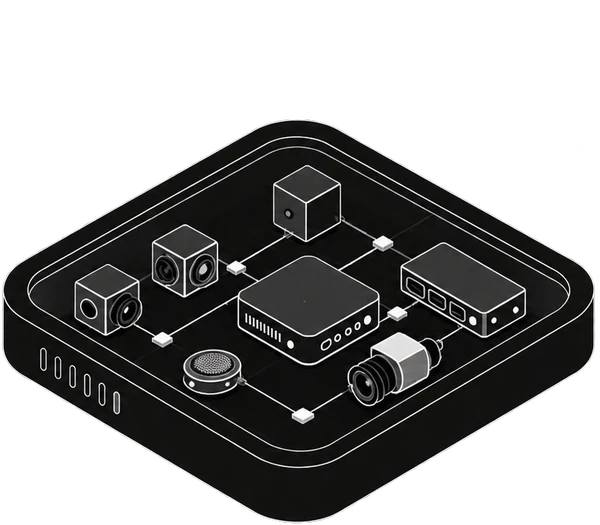
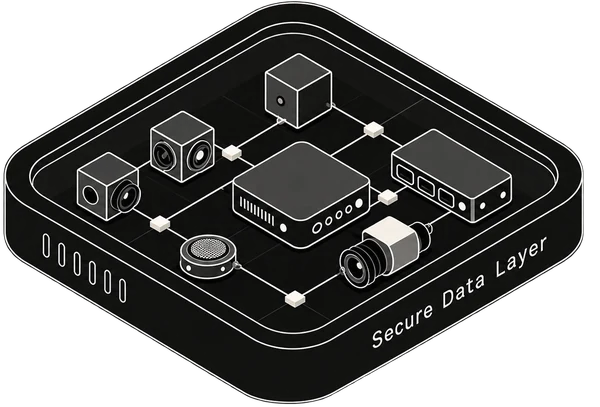
Use the new hospital chips at one size, drop the added labels, widen 06 and 07
The three new chip images carry their own labels, so the site text under
them is gone. All three are scaled to the same chip width with their bottoms
175 apart, and still open out of one. The right hand text in the 06 and 07
rows is 429 wide from 747, as in Page 8.

diff --git a/css/style.css b/css/style.css
@@ -230,8 +230,8 @@ button.nav__link:hover { color: var(--paper); }
 /* Column rule at 365 on both, as in Figma; the rows share the height between the rules */
 .rows { position: absolute; top: 81px; left: 366px; width: calc(834px + var(--dx)); height: calc(670px + var(--dy)); display: flex; flex-direction: column; }
 .row { display: flex; align-items: center; justify-content: space-between; padding: 0 24px; flex: 1 1 0; min-height: 0; }
-.row > .t-b16 { width: 315px; }
-.detail { width: 315px; display: flex; flex-direction: column; gap: 16px; }
+.row > .t-b16 { width: 429px; }
+.detail { width: 429px; display: flex; flex-direction: column; gap: 16px; }
 
 /* ---------- 08 Delivery ---------- */
 .tree { position: absolute; left: 721px; top: 105px; width: 239px; }
@@ -269,21 +269,18 @@ button.nav__link:hover { color: var(--paper); }
 .scene.is-leaving { opacity: 0; transition: opacity var(--out) ease, visibility 0s linear var(--out); }
 
 /* ---------- 11 Hospitals ----------
-   The chips start stacked on the middle one, so only the top chip shows. They open out:
-   Hospitals rises 175, AI-ready data drops 175, SOMA capture is revealed, then the labels. */
+   Three chips drawn at one width (300), bottoms 175 apart. They start stacked on the middle
+   one, so only the top chip shows, then open out: Hospital data rises, AI ready data drops and
+   the secure data layer is revealed. The chips carry their own labels. */
 .chips { position: absolute; left: 812px; top: 124px; width: 300px; height: 576px; --lift: 175px; }
-.chip-label:nth-of-type(2) { --i: 1; }
-.chip-label:nth-of-type(3) { --i: 2; }
 .chip { position: absolute; left: 0; width: 300px; height: auto; display: block; }
-.chip--hospitals { top: 0; }
-.chip--capture { top: 138px; }
-.chip--data { top: 372px; }
-.chip-label { position: absolute; left: -40px; color: var(--text-muted); white-space: nowrap; }
+.chip--hospitals { top: 16px; }
+.chip--capture { top: 198px; }
+.chip--data { top: 376px; }
 .scene.is-active .chips { animation: rise 600ms cubic-bezier(0.22, 1, 0.36, 1) both; animation-delay: var(--late, 0ms); }
 .scene.is-active .chip--hospitals { animation: chipUp 1000ms cubic-bezier(0.65, 0, 0.35, 1) both; animation-delay: calc(var(--late, 0ms) + 650ms); }
 .scene.is-active .chip--data { animation: chipDown 1000ms cubic-bezier(0.65, 0, 0.35, 1) both; animation-delay: calc(var(--late, 0ms) + 650ms); }
 .scene.is-active .chip--capture { animation: chipShow 1000ms linear both; animation-delay: calc(var(--late, 0ms) + 650ms); }
-.scene.is-active .chip-label { animation: fadeIn 500ms ease both; animation-delay: calc(var(--late, 0ms) + 1550ms + var(--i, 0) * 80ms); }
 @keyframes chipUp { from { transform: translateY(var(--lift)); } }
 @keyframes chipDown { 0% { transform: translateY(calc(var(--lift) * -1)); opacity: 0; } 20% { opacity: 1; } }
 @keyframes chipShow { 0% { opacity: 0; } 25% { opacity: 1; } }
@@ -413,9 +410,9 @@ button.nav__link:hover { color: var(--paper); }
   /* 11 */
   .chips { left: 50%; top: 76px; margin-left: -110px; width: 220px; height: 420px; --lift: 128px; }
   .chip { width: 220px; }
-  .chip--capture { top: 101px; }
-  .chip--data { top: 273px; }
-  .chip-label { display: none; }
+  .chip--hospitals { top: 12px; }
+  .chip--capture { top: 145px; }
+  .chip--data { top: 276px; }
 
   /* 12 */
   .form { left: 36px; top: 84px; width: calc(100vw - 72px); max-height: calc(100svh - 120px); overflow-y: auto; gap: 18px; padding-bottom: 24px; }

diff --git a/index.html b/index.html
@@ -8,7 +8,7 @@
   <meta name="theme-color" content="#000000">
   <link rel="preload" href="assets/fonts/Satoshi-Medium.woff" as="font" type="font/woff" crossorigin>
   <link rel="preload" href="assets/video/01-home.jpg?v=4" as="image">
-  <link rel="stylesheet" href="css/style.css?v=7">
+  <link rel="stylesheet" href="css/style.css?v=8">
 </head>
 <body>
   <main class="stage" id="stage">
@@ -219,14 +219,12 @@
           <p class="t-b16 c-sec" style="width:591px;margin-top:24px">SOMA works directly with hospitals to install the capture systems, data infrastructure and workflows required to continuously create AI-ready healthcare data.</p>
           <span class="btn btn--16 is-disabled" aria-disabled="true" style="margin-top:32px">For Hospitals</span>
         </div>
-        <!-- Three chips that open out of one: Hospitals rises, AI-ready data drops, SOMA capture is revealed -->
-        <div class="chips axc" role="img" aria-label="Three stacked layers: the hospital, SOMA capture and AI-ready data">
-          <img class="chip chip--data" src="assets/img/chip-data.webp" alt="" width="300" height="204">
-          <img class="chip chip--capture" src="assets/img/chip-capture.webp" alt="" width="300" height="263">
-          <img class="chip chip--hospitals" src="assets/img/chip-hospitals.webp" alt="" width="300" height="226">
-          <span class="chip-label t-caps12" style="top:34px">Hospitals</span>
-          <span class="chip-label t-caps12" style="top:180px">SOMA capture</span>
-          <span class="chip-label t-caps12" style="top:404px">AI-ready data</span>
+        <!-- Three chips of one size that open out of one: Hospital data rises, AI ready data drops,
+             the secure data layer is revealed between them -->
+        <div class="chips axc" role="img" aria-label="Three stacked layers: hospital data, a secure data layer and AI ready data">
+          <img class="chip chip--data" src="assets/img/chip-data.webp?v=2" alt="" width="300" height="200">
+          <img class="chip chip--capture" src="assets/img/chip-capture.webp?v=2" alt="" width="300" height="203">
+          <img class="chip chip--hospitals" src="assets/img/chip-hospitals.webp?v=2" alt="" width="300" height="210">
         </div>
       </section>
 
